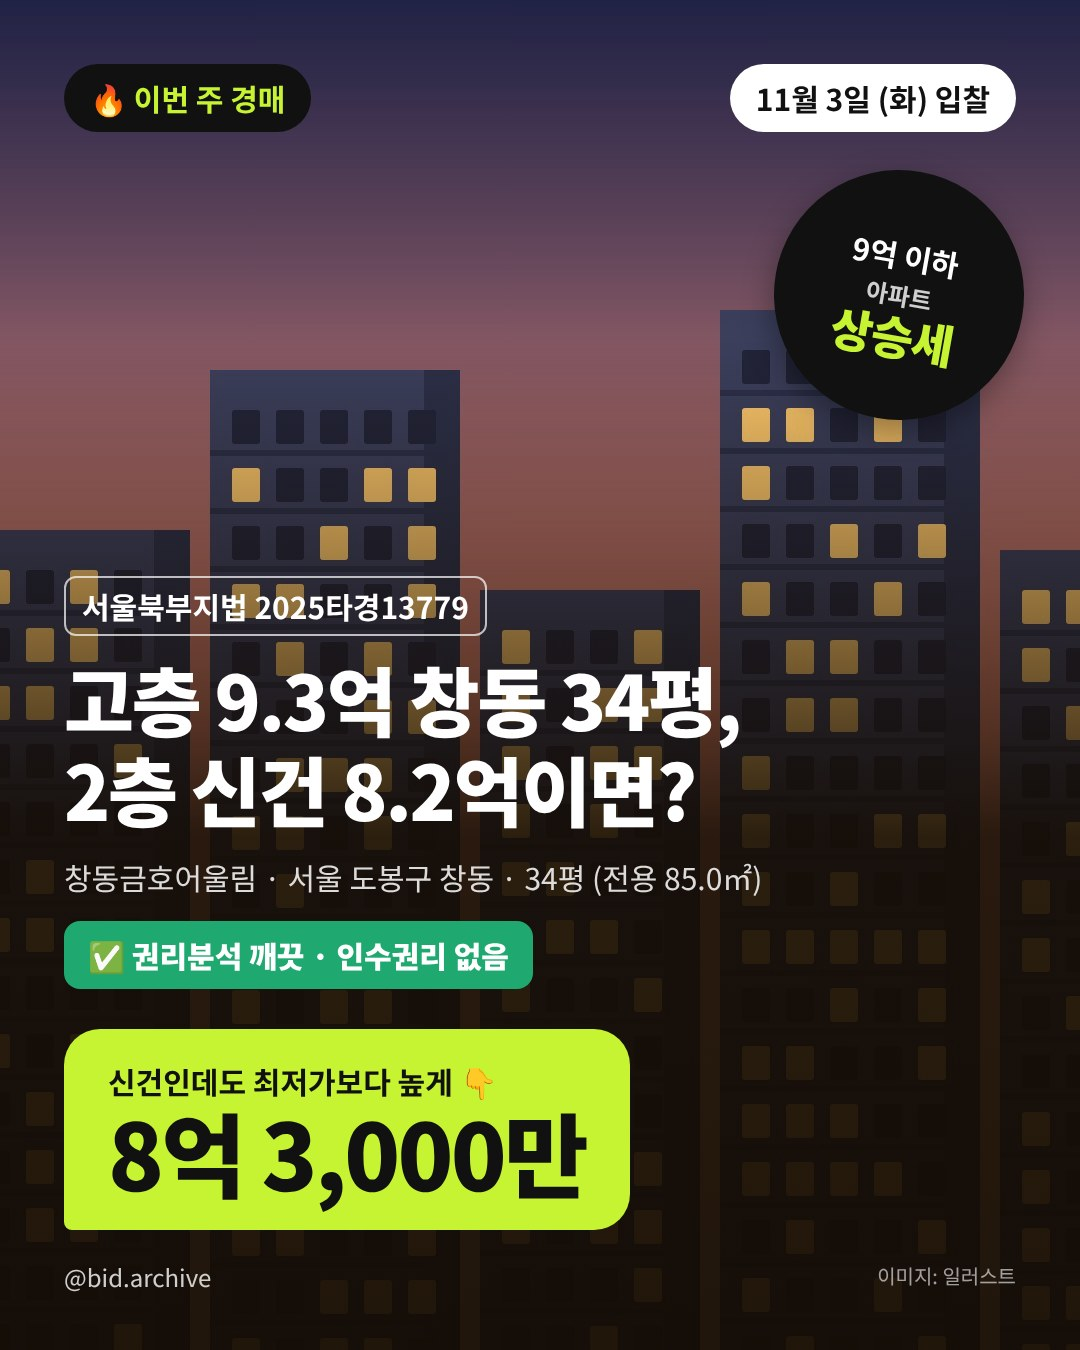
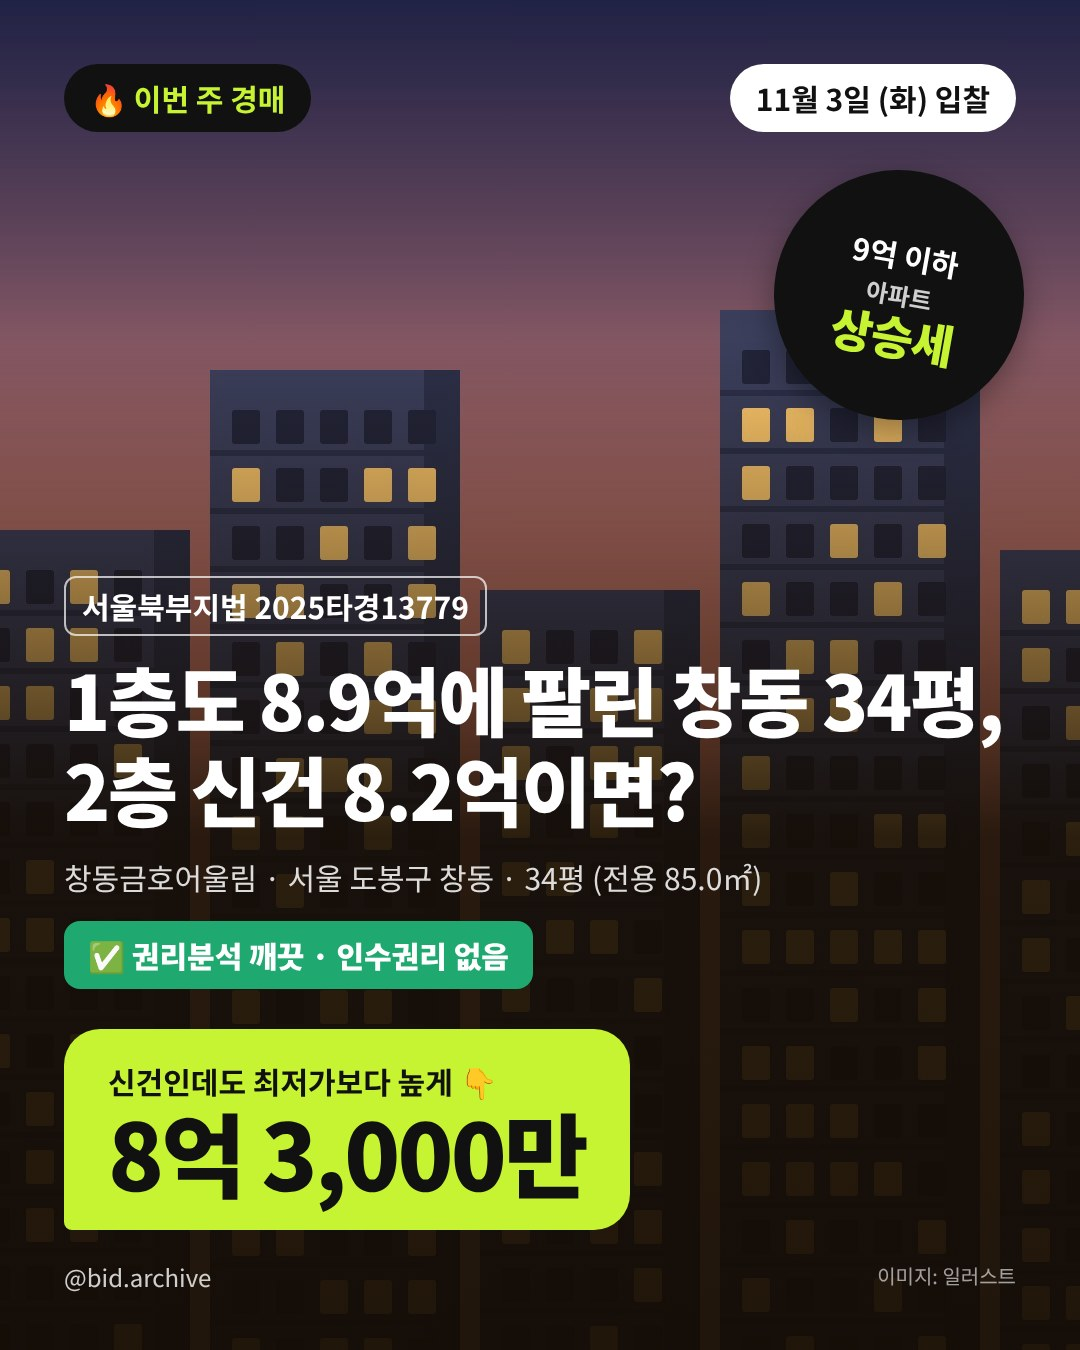
Add files via upload

Changed region(s): [[0.0611, 0.4978, 0.9472, 0.56]]

diff --git a/index.html b/index.html
@@ -182,7 +182,7 @@ footer{font-size:12px;color:var(--sub);border-top:1px solid var(--line);padding-
 /* 데이터: 결과가 나오면 result(원), bidders(명)만 채우면 됩니다. status: 'changed'(기일 변경)·'withdrawn'(취하) */
 const RECORDS = [
   {region:"서울", court:"서울북부", case_no:"2025타경13779", title:"창동금호어울림", area:"34평 · 2층 · 신건", date:"2026-11-03",
-   minimum:820000000, market:857000000, predict:830000000, result:null, bidders:null, locked:false,
+   minimum:820000000, market:890000000, predict:830000000, result:null, bidders:null, locked:false,
    cards:["13779-1.jpg","13779-2.jpg","13779-3.jpg"]},
   {region:"서울", court:"서울남부", case_no:"2026타경33", title:"신도림태영타운", area:"34평 · 15/21층 · 신건 유찰 후 다음 회차 예측", date:"2026-11-06",
    minimum:1400000000, market:1440000000, predict:1350000000, result:null, bidders:null, locked:false,
